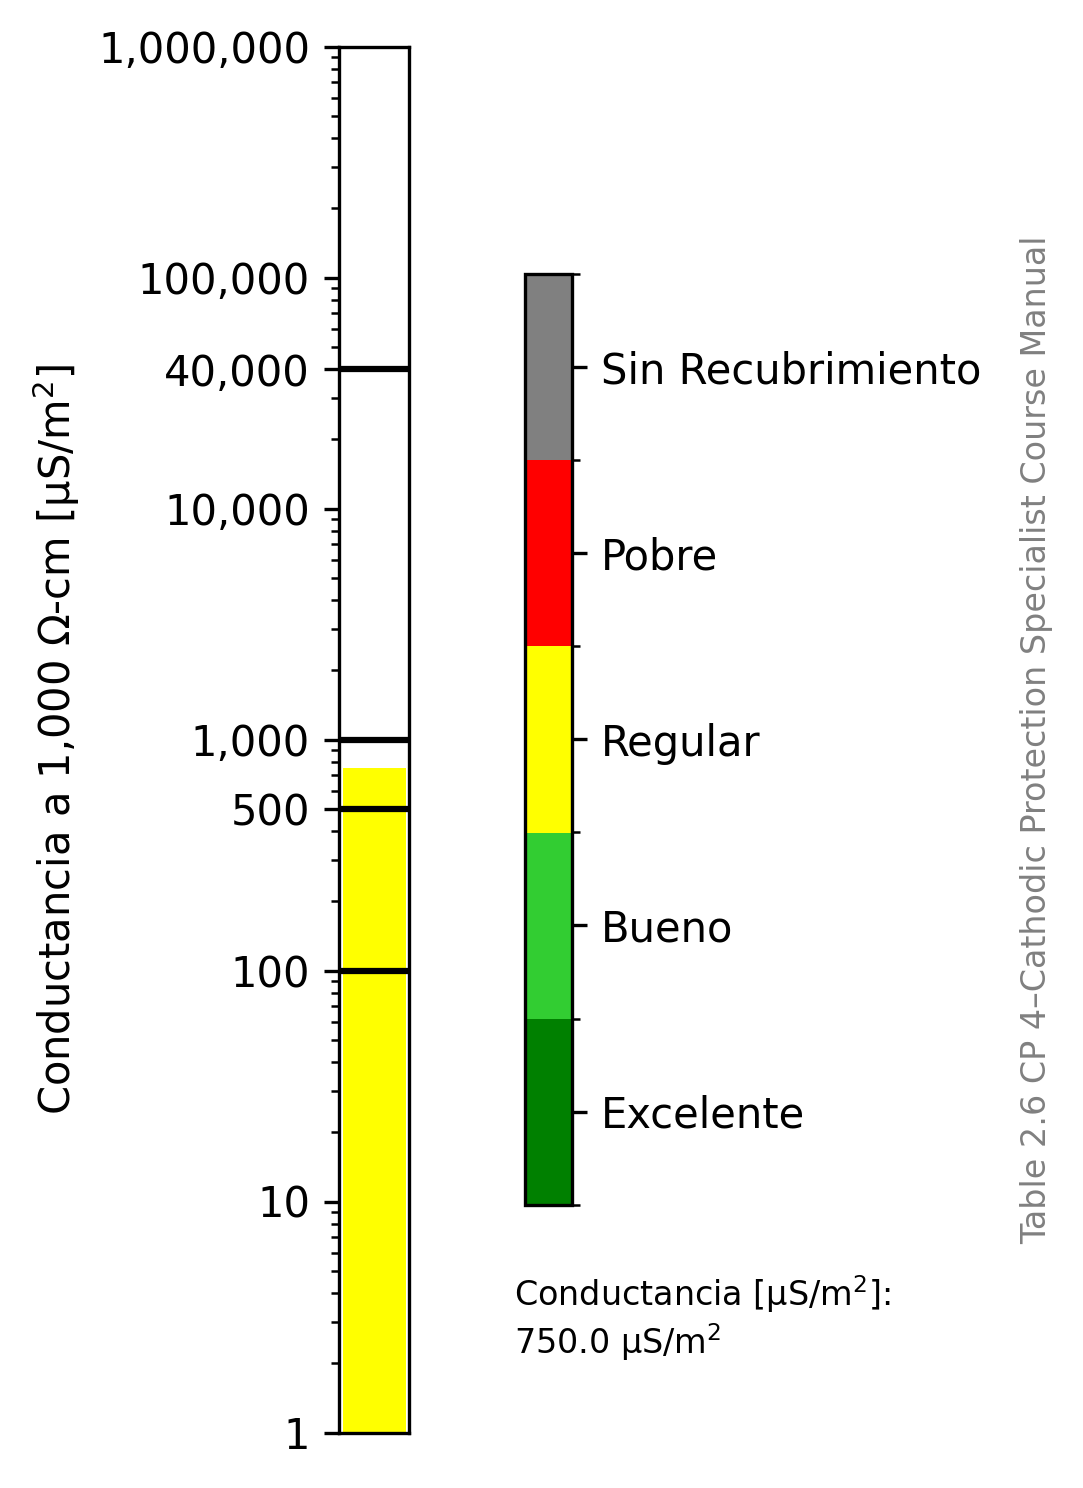
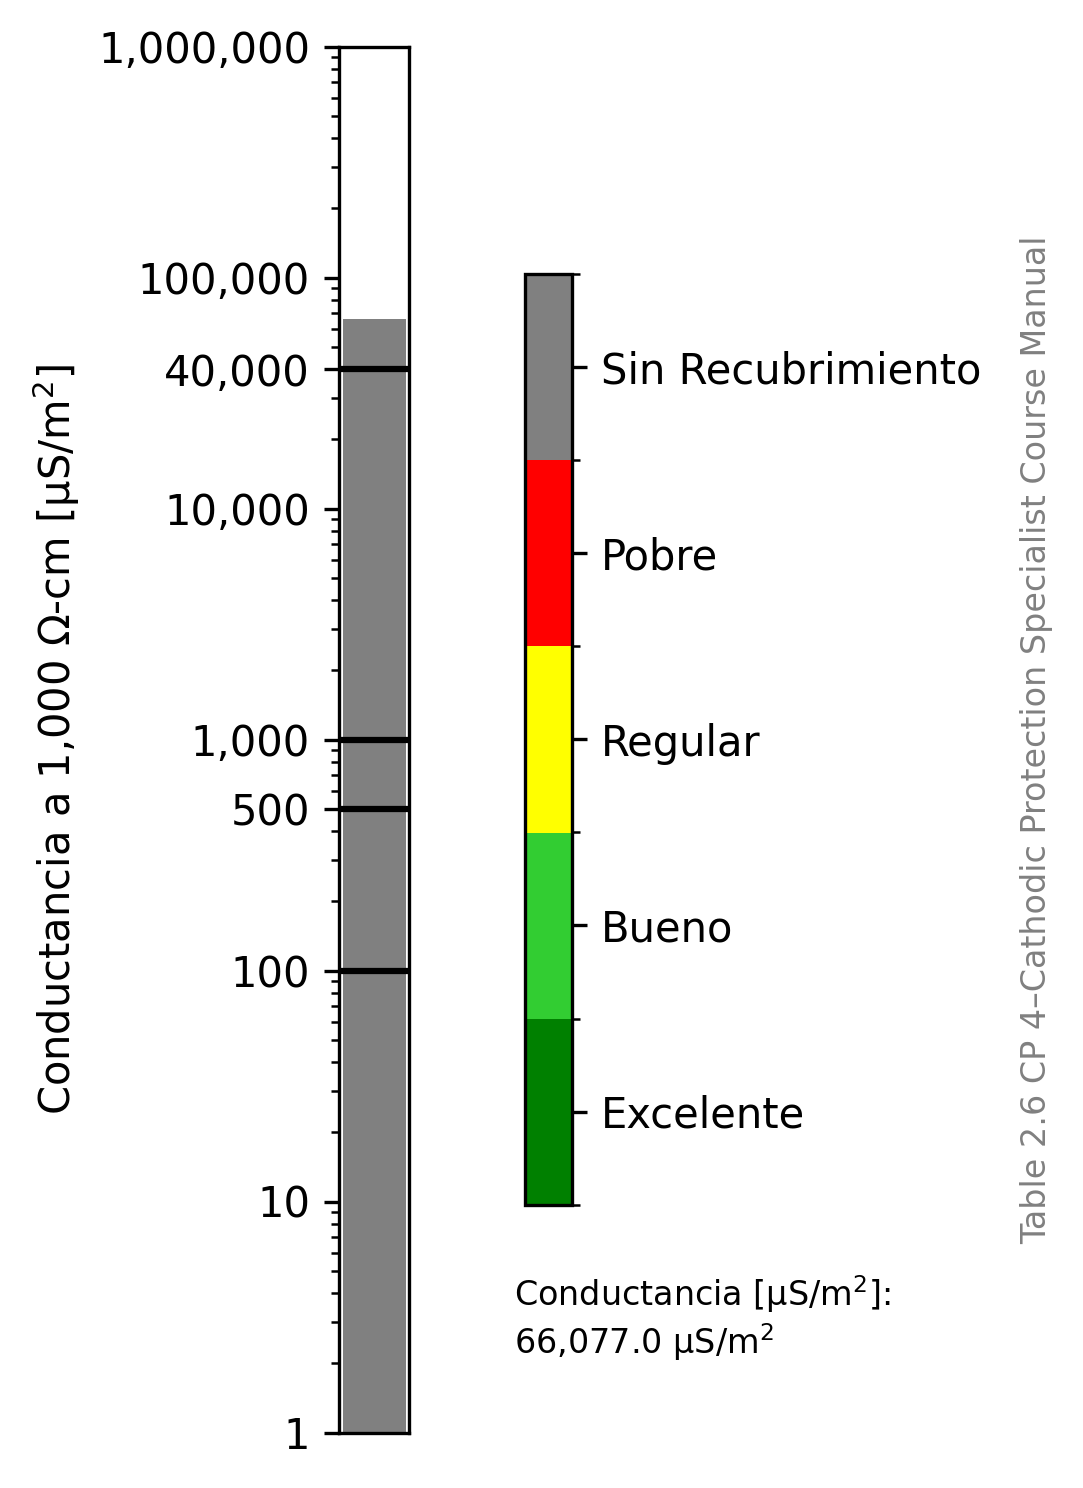
Refactor page2 layout and enhance calculations for resistivity and conductance; update headers and input formats

Changed region(s): [[0.3047, 0.2164, 0.3961, 0.9892], [0.4875, 0.8965, 0.7008, 0.9274]]

diff --git a/pages/page2.py b/pages/page2.py
@@ -2,42 +2,110 @@ import streamlit as st
 from functions import grafica_conductancia, tuberias_largas, tuberias_distribucion
 import numpy as np
 def page2():
-    st.title("Page 2: graficos y calculos")
-    st.write("Welcome to the second page of the Streamlit application!")
-    st.write("Here you can add different components and functionalities tailored to this page.")
-    
-    # Example components
-    st.header("Interactive Widget Ejemplo")
-    user_input = st.text_input("Enter some text:")
-    if user_input:
-        st.write(f"You entered: {user_input}")
+    st.title("Calculo de conductancia específica de recubrimiento")
+    # st.write("Welcome to the second page of the Streamlit application!")
+    # st.write("Here you can add different components and functionalities tailored to this page.")
 
-    st.header("Resistividad de suelos")
+    st.header("1.-Resistividad de suelos")
     c1, c2, c3 = st.columns([1, 1, 1])
     with c1:
-        resistencia1, d1 = st.number_input("resistencia #1:"), st.number_input("Distancia #1 [cm]:")
+        resistencia1, d1 = st.number_input("resistencia #1:", format="%.4f"), st.number_input("Distancia #1 [cm]:")
+        km_1=st.number_input("Km #1 [m]:", step=1)
         if resistencia1 and d1:
-            st.markdown(f"\nResistividad: {(2*np.pi*d1*resistencia1):,.2f} Ω-cm")
+            st.markdown(f"\nResistividad: {(2*np.pi*d1*resistencia1):,.0f} Ω-cm")
     with c2:
-        resistencia2, d2 = st.number_input("resistencia #2:"), st.number_input("Distancia #2 [cm]:")
+        resistencia2, d2 = st.number_input("resistencia #2:", format="%.4f"), st.number_input("Distancia #2 [cm]:")
+        km_2=st.number_input("Km #2 [m]:", step=1)
         if resistencia2 and d2:
-            st.markdown(f"\nResistividad: {(2*np.pi*d2*resistencia2):,.2f} Ω-cm")
+            st.markdown(f"\nResistividad: {(2*np.pi*d2*resistencia2):,.0f} Ω-cm")
     c1, c2 = st.columns([2, 1])
     with c1:
         if (2*np.pi*d1*resistencia1)>0 and (2*np.pi*d2*resistencia2)>0:
-            resistividad_avg=((2*np.pi*d1*resistencia1)+(2*np.pi*d2*resistencia2))/2
+            resistividad_avg=round(((2*np.pi*d1*resistencia1)+(2*np.pi*d2*resistencia2))/2,0)
             st.markdown(f"\nResistividad promedio: {resistividad_avg:,.2f} Ω-cm",)
        
     st.divider()
-    st.header("Calibración de tramo en estación de 4 pines")
+    st.header("2.-Calibración de tramo en estación de 4 pines")
     
+    st.subheader("Resistencia del tramo #1")
+    c1, c2, c3 = st.columns([1, 1.3, 2])
+    with c1:
+        caida_1_on, caida_1_off = st.number_input("Caída IR en ON #1 [mV]:",format="%0.3f"), st.number_input("Caída IR en OFF #1 [mV]:")
+    with c2:
+        corriente_prueba_1_on, corriente_prueba_1_off = st.number_input("Corriente prueba ON #1 [mA]:"), st.number_input("Corriente prueba OFF #1 [mA]:")
     
+    if caida_1_on and caida_1_off and corriente_prueba_1_on:
+        R_tramo1=(caida_1_on-caida_1_off)/(corriente_prueba_1_on-corriente_prueba_1_off)
+        st.markdown(f"Resistencia del tramo #1: {((R_tramo1)):,.6f} Ω")
+
+    st.subheader("Resistencia del tramo #2")
+    c1, c2, c3 = st.columns([1, 1.3, 2])
+    with c1:
+        caida_2_on, caida_2_off = st.number_input("Caída IR en ON #2 [mV]:",format="%0.3f"), st.number_input("Caída IR en OFF #2 [mV]:")
+    with c2:
+        corriente_prueba_2_on, corriente_prueba_2_off = st.number_input("Corriente prueba ON #2 [mA]:"), st.number_input("Corriente prueba OFF #2 [mA]:")
     
+    if caida_2_on and caida_2_off and corriente_prueba_2_on:
+        R_tramo2=(caida_2_on-caida_2_off)/(corriente_prueba_2_on-corriente_prueba_2_off)
+        st.markdown(f"Resistencia del tramo #2: {((R_tramo1)):,.6f} Ω")
     
-    st.divider()
+    st.divider()    
+    st.header("3.-USANDO CORRIENTE DEL RPC")
+
+    c1, c2, c3 = st.columns([1.4, 1.4, 1])
+    with c1:
+        st.subheader("Para tramo #1")
+        Potencial_ON_1, Potencial_OFF_1 = st.number_input("Potencial ON #1 [V]:",format="%.4f"), st.number_input("Potencial OFF #1 [V]:",format="%0.3f")
+        delta_pot_1=abs(Potencial_ON_1-Potencial_OFF_1)
+        st.markdown(f"∆v [V]: {delta_pot_1:,.3f}")
     
-    st.header("Conductancia de recubrimiento")
-    valor_conductancia=st.number_input("Conductancia:")
+    with c2:
+        st.subheader("Para tramo #2")
+        Potencial_ON_2, Potencial_OFF_2 = st.number_input("Potencial ON #2 [V]:",format="%0.3f"), st.number_input("Potencial OFF #2 [V]:",format="%0.3f")
+        delta_pot_2=abs(Potencial_ON_2-Potencial_OFF_2)
+        st.markdown(f"∆v [V]: {delta_pot_2:,.3f} V")
+    ratio_deltas=delta_pot_1/delta_pot_2
+    
+    promedio_deltas=(delta_pot_1+delta_pot_2)/2
+    st.markdown(f"Promedio de ∆v={round((delta_pot_1+delta_pot_2)/2,4)}")
+    if ratio_deltas>0.625 or ratio_deltas<1.6:
+        st.markdown(f"∆va/∆vb={round(ratio_deltas,3)}")
+        st.markdown(f"NOTE 6: If the ratio of the ΔV potentials from each pair of adjacent test locations is between 1.6 and 0.625, then the arithmetic mean of the two can be taken as the average potential change in the section of pipeline between these test locations.1 However, if the ratio is outside this range, then one or more intermediate locations should be selected for the potential measurements until the ratio between two successive values is between 1.6 and 0.625. Alternatively, one of the attenuation methods outlined in Section 4 can be used.")
+    
+    st.subheader("Caída de Voltaje en el tramo usando la corriente del RPC")
+    c1, c2, c3 = st.columns([1, 1, 1])
+    with c1:
+        caida_rpc_1_on, caida_rpc_1_off = st.number_input("Caída de voltaje #1 ON [mV]:",format="%0.3f"), st.number_input("Caída de voltaje #1 OFF [mV]:",format="%0.3f")
+    with c2:
+        caida_rpc_2_on, caida_rpc_2_off = st.number_input("Caída de voltaje #2 ON [mV]::",format="%0.3f"), st.number_input("Caída de voltaje #2 OFF [mV]:",format="%0.3f")
+    
+    if caida_rpc_1_on and caida_rpc_1_off and caida_rpc_2_on and caida_rpc_2_off:
+        delta1=abs(caida_rpc_1_on-caida_rpc_1_off)
+        delta2=abs(caida_rpc_2_on-caida_rpc_2_off)
+        I_pick_1=abs(delta1/1000/R_tramo1)
+        I_pick_2=abs(delta2/1000/R_tramo2)
+        st.markdown(f"Corriente de Pickering #1: {I_pick_1:,.3f} A")
+        st.markdown(f"Corriente de Pickering #2: {I_pick_2:,.3f} A")    
+    st.divider()  
+    st.header("4.-Conductancia de recubrimiento")
+    
+    st.subheader(f"Conductancia de recubrimiento g [S]: {(abs(I_pick_1-I_pick_2)/promedio_deltas):,.2f} S")
+    diametro_in=st.number_input("Diametro [in]:",format="%0.3f", value=0.0, max_value=42.0, min_value=0.0, step=0.1)
+    diametro_m=diametro_in*0.0254
+    Longitud_tramo=abs(km_1-km_2)
+    area_coated=(np.pi*diametro_m)*Longitud_tramo
+    st.markdown(f"Area del tramo: {area_coated:,.2f} m²")
+    
+    conducatancia_especifica=1000000*(abs(I_pick_1-I_pick_2)/promedio_deltas/area_coated
+    )
+    st.markdown(f"Conductancia especifica: {conducatancia_especifica:,.0f} μS/m² @ {resistividad_avg:,.2f} Ω-cm")
+    
+    st.subheader(f"Normalizacion de Conductancia especifica @ 1,000 Ω-cm")
+    
+    NORM_conductancia_especifica=conducatancia_especifica*resistividad_avg/1000
+    st.subheader(f"Conductancia especifica normalizada: {NORM_conductancia_especifica:,.0f} μS/m²")
+    # valor_conductancia=st.number_input("Conductancia:")
+    valor_conductancia=conducatancia_especifica
     
     tipo_coating=st.selectbox('Tipo de Coating', 
                               ['','FBE', 'PE', 'Alquitrán de hulla','Tricapa','Visco-elastico', 'Otros'],
@@ -45,11 +113,12 @@ def page2():
     tipo=st.selectbox('Tipo de Tubería', 
         ['','Tuberías largas con pocas ramificaciones', 'Distribución de Gas o Agua, con muchas ramificaciones'], 
         index=0)  # Set default value to the first option
+    st.header("5.-Resultados")
     if tipo and tipo_coating:
         grafica_conductancia(valor_conductancia, tipo)
         col1, col2, col3 = st.columns([1, 2, 1])
         with col2:
-            st.image('images/barras_CP4.png', caption='Grafico de barras CP4', width=300)
+            st.image('images/barras_CP4.png', caption='Conductancia específica μS/m² y clasificación', width=300)
     if tipo_coating=='FBE':
         if tipo=='Tuberías largas con pocas ramificaciones':
             tuberias_largas(valor_conductancia)

diff --git a/functions.py b/functions.py
@@ -219,7 +219,7 @@ def tuberias_largas(valor_conductancia):
     x_value = x[np.where(y >= valor_conductancia)[0][0]]
     ax.scatter(x_value, valor_conductancia, color='black', zorder=5)  # Coordenadas del punto
     # Anotación de un punto específico con recuadro de fondo blanco
-    ax.annotate(f'{valor_conductancia:,} μS/m²\n{x_value:.3f}% bare\n{100-x_value:.3f}% coated', xy=(x_value, valor_conductancia), xytext=(7, 1000),
+    ax.annotate(f'{valor_conductancia:,.0f} μS/m²\n{x_value:.3f}% bare\n{100-x_value:.3f}% coated', xy=(x_value, valor_conductancia), xytext=(7, 1000),
                 arrowprops=dict(facecolor='black', arrowstyle='->'),
                 bbox=dict(facecolor='white', edgecolor='black', boxstyle='round,pad=0.5'),
                 fontsize=8)
@@ -276,7 +276,7 @@ def tuberias_distribucion(valor_conductancia):
     x_value = x[np.where(y >= valor_conductancia)[0][0]]
     ax.scatter(x_value, valor_conductancia, color='black', zorder=5)  # Coordenadas del punto
     # Anotación de un punto específico con recuadro de fondo blanco
-    ax.annotate(f'{valor_conductancia:,} μS/m²\n{x_value:.3f}% bare\n{100-x_value:.3f}% coated', xy=(x_value, valor_conductancia), xytext=(7, 1000),
+    ax.annotate(f'{valor_conductancia:,.0f} μS/m²\n{x_value:.3f}% bare\n{100-x_value:.3f}% coated', xy=(x_value, valor_conductancia), xytext=(7, 1000),
                 arrowprops=dict(facecolor='black', arrowstyle='->'),
                 bbox=dict(facecolor='white', edgecolor='black', boxstyle='round,pad=0.5'),
                 fontsize=8)
